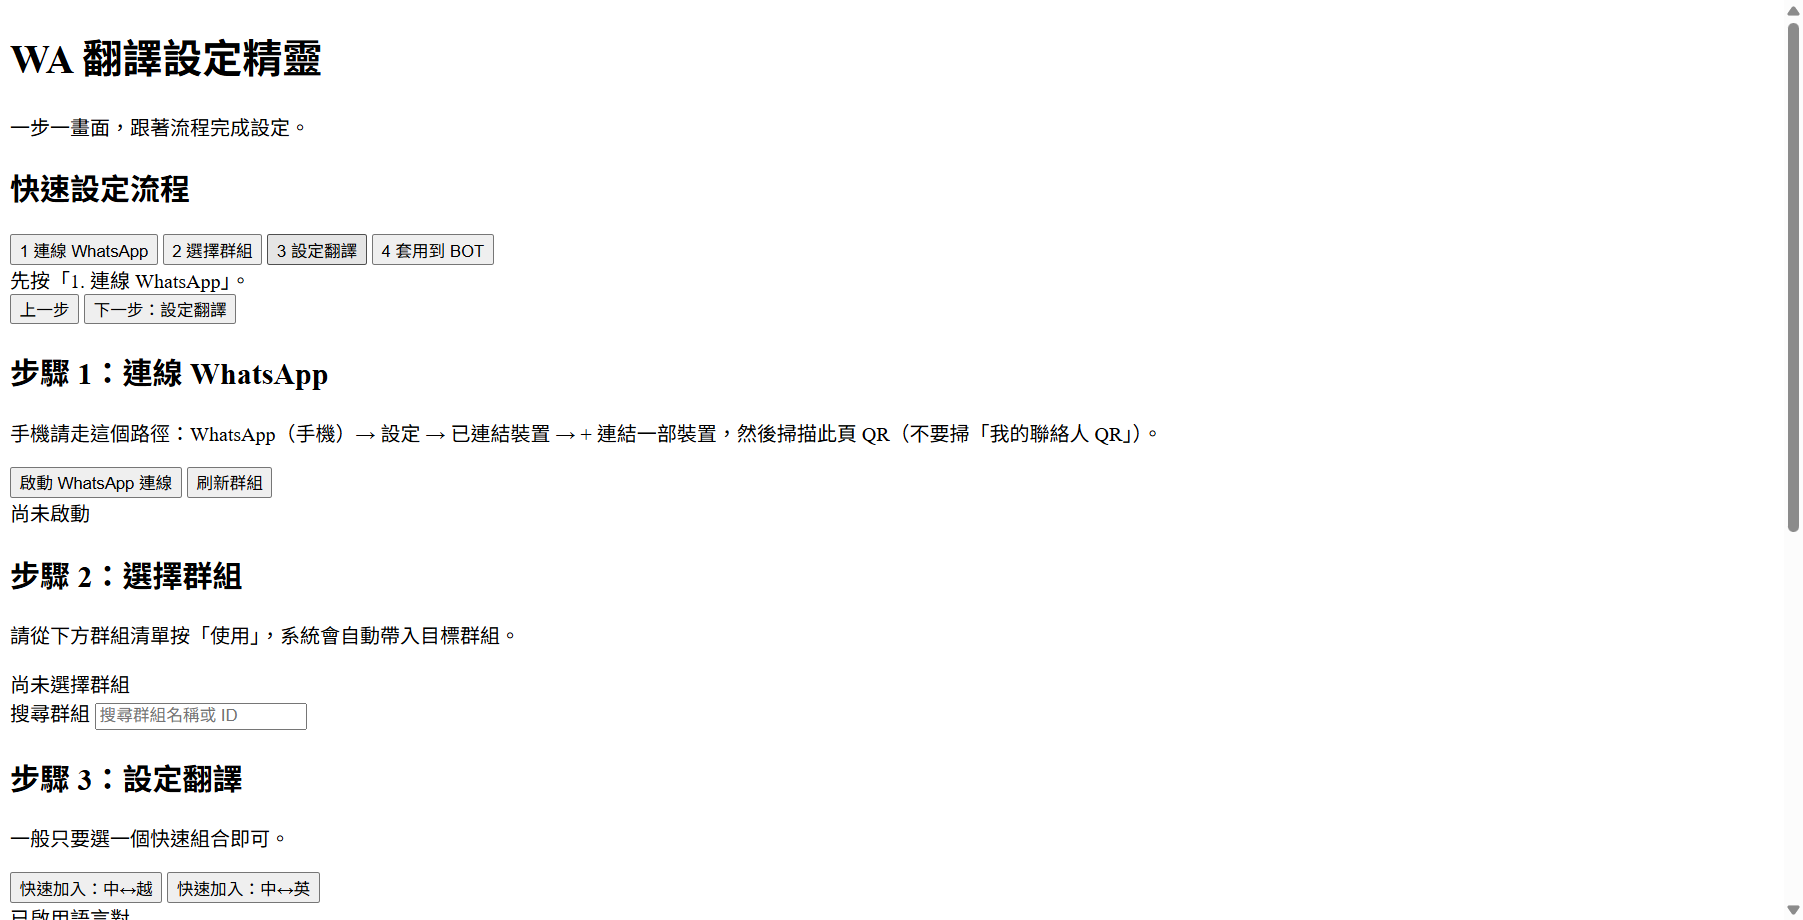
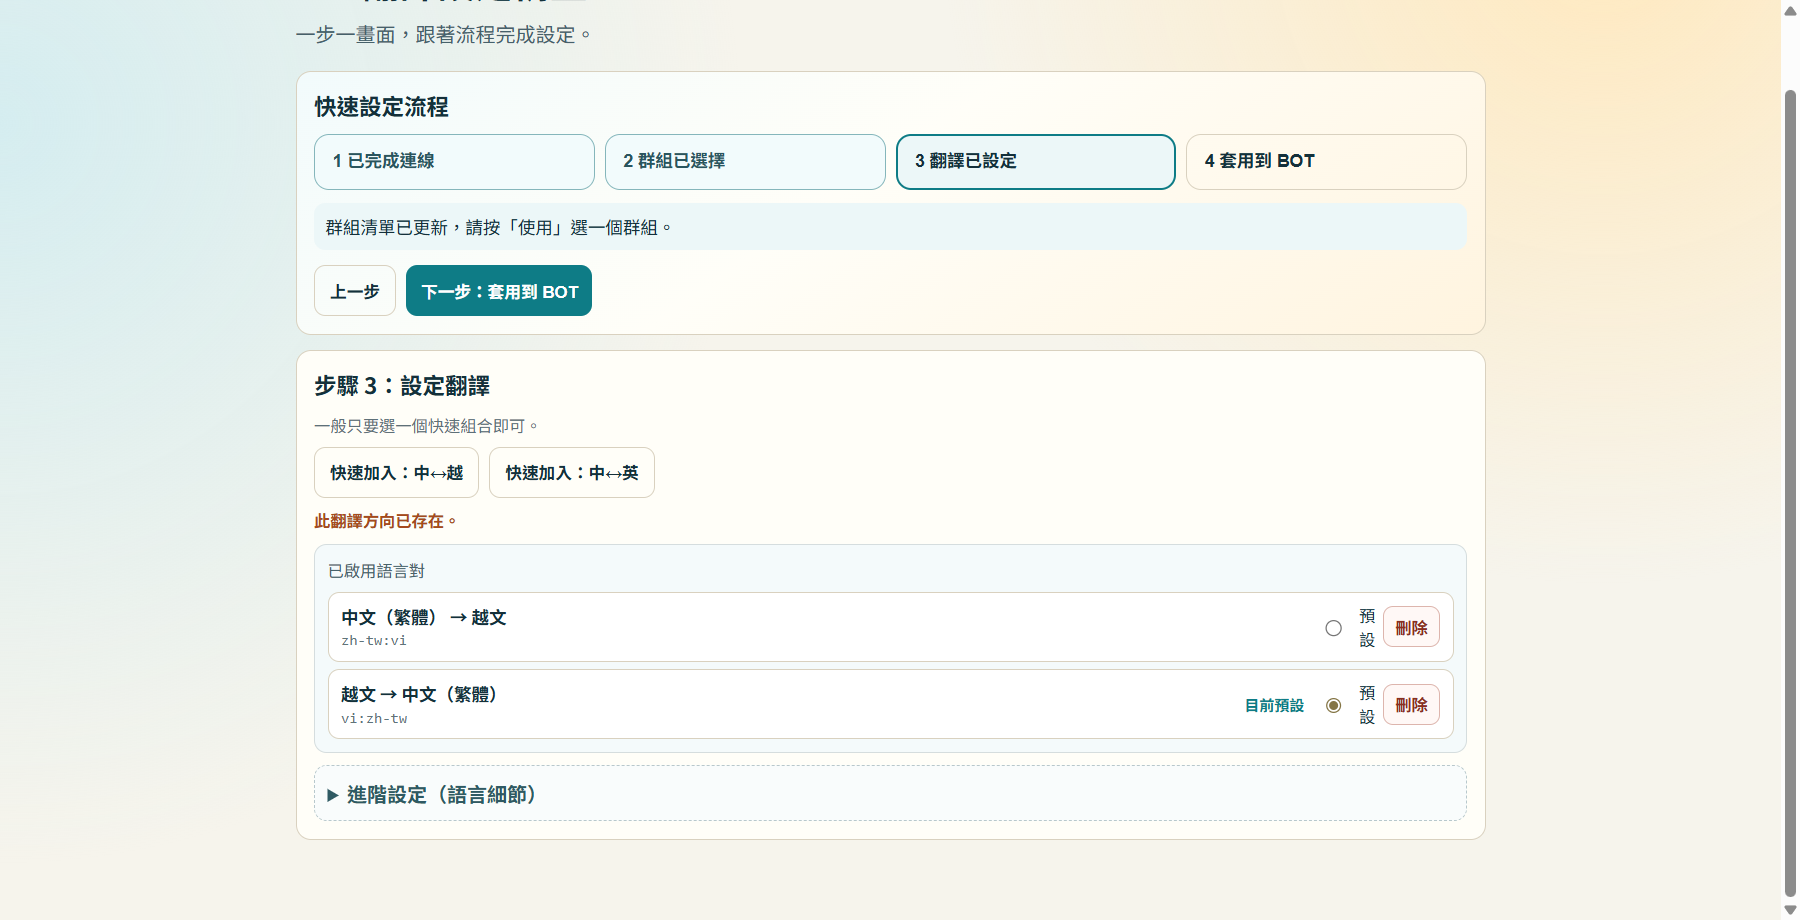
docs(readme): 以 localhost 真實畫面重製操作截圖

diff --git a/README.md b/README.md
@@ -18,6 +18,8 @@
 
 ## 真實畫面（Wizard UI）
 
+以下截圖來自實際運行中的 Wizard：`http://localhost:38765`（非 `file://` 靜態開檔畫面）。
+
 ### 畫面 1：快速設定總覽
 
 ![Wizard 總覽](docs/images/wizard-overview.png)
